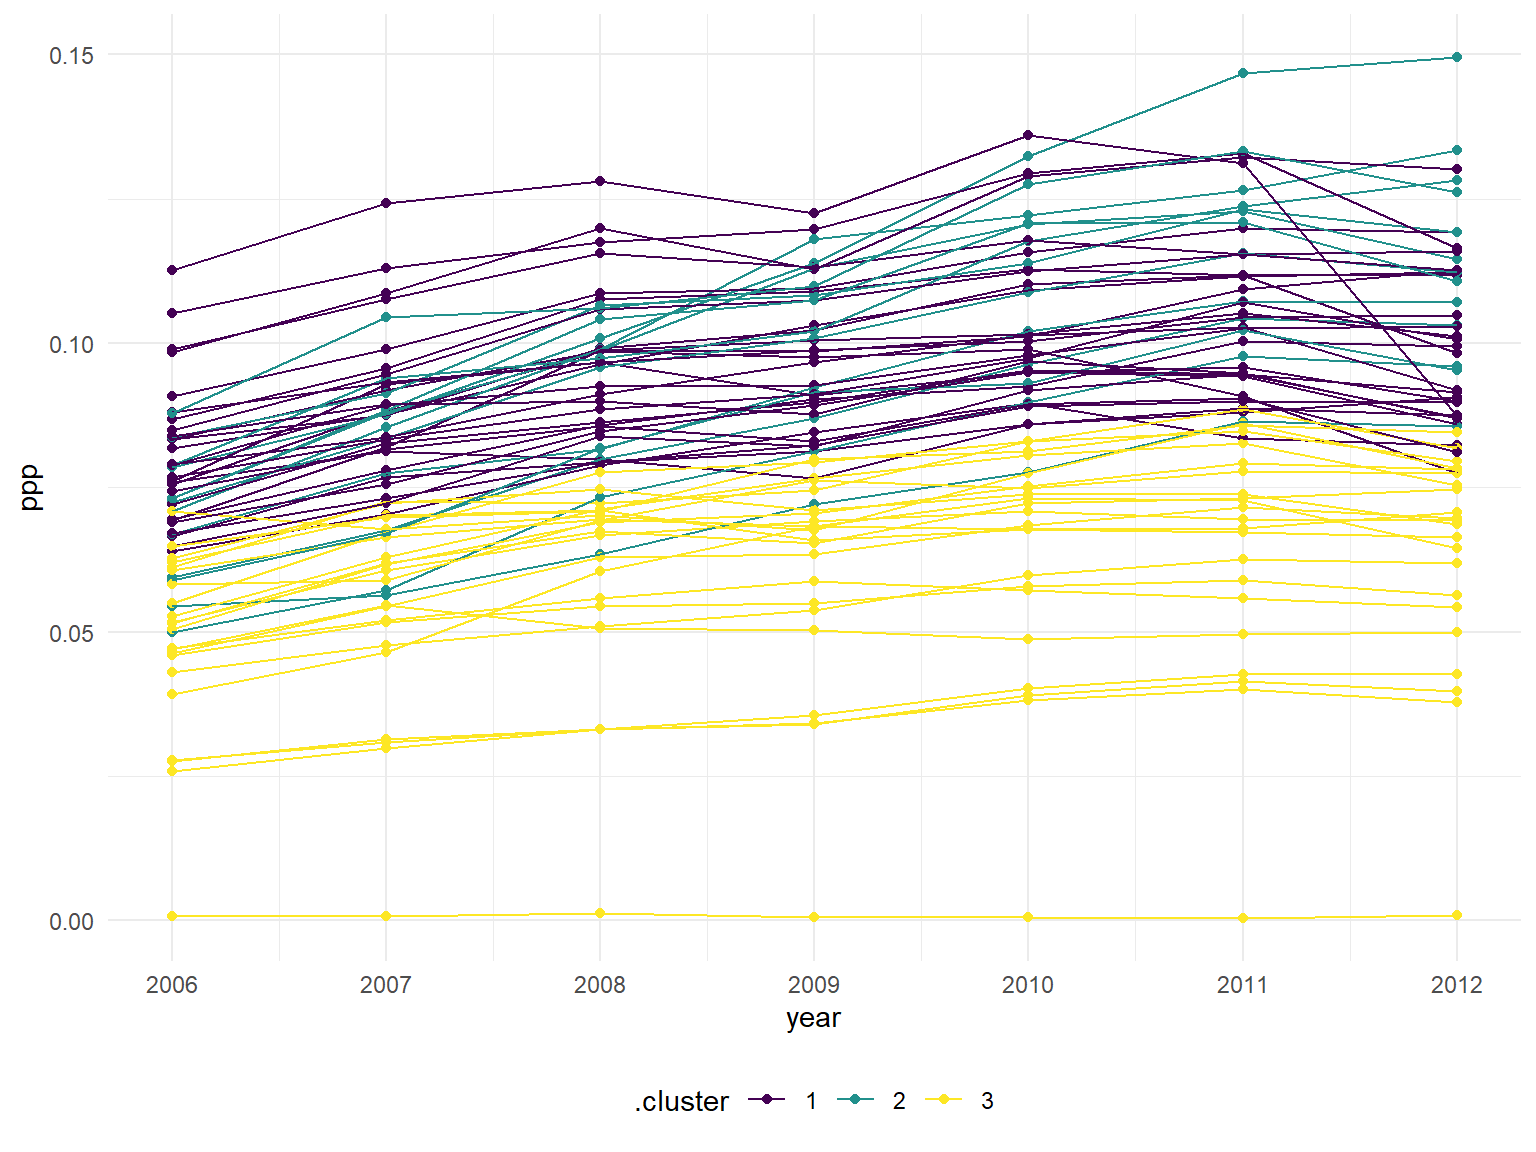
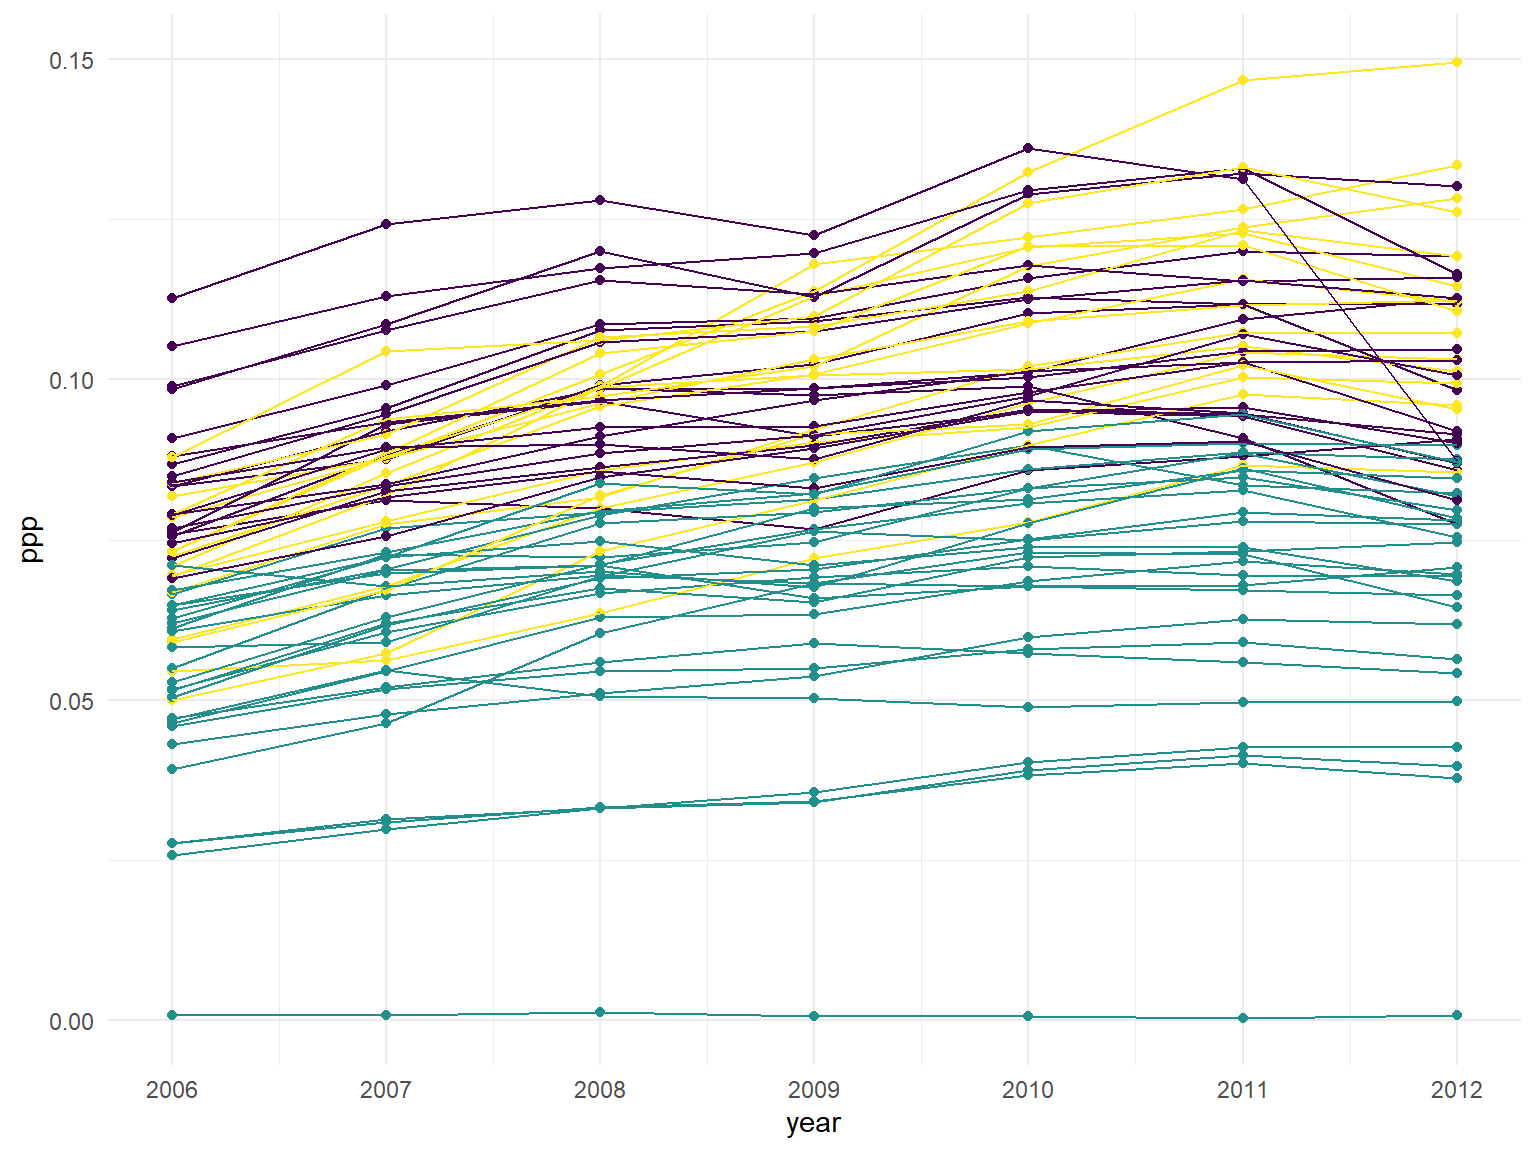
jared's graphs

diff --git a/final_project_jsg.html b/final_project_jsg.html
@@ -480,7 +480,8 @@ int_slope_df =
   ggplot(aes(x = year, y = ppp, group = county, color = .cluster)) + 
   geom_point() + 
   geom_path() +
-  scale_x_continuous(breaks = c(0, 1, 2, 3, 4, 5, 6), labels = c(&quot;2006&quot;, &quot;2007&quot;, &quot;2008&quot;, &quot;2009&quot;, &quot;2010&quot;, &quot;2011&quot;, &quot;2012&quot;))</code></pre>
+  scale_x_continuous(breaks = c(0, 1, 2, 3, 4, 5, 6), labels = c(&quot;2006&quot;, &quot;2007&quot;, &quot;2008&quot;, &quot;2009&quot;, &quot;2010&quot;, &quot;2011&quot;, &quot;2012&quot;)) +
+  theme(legend.position = &quot;none&quot;)</code></pre>
 <pre><code>## Joining, by = &quot;county&quot;</code></pre>
 <p><img src="final_project_jsg_files/figure-html/unnamed-chunk-11-1.png" width="90%" /></p>
 <pre class="r"><code>death_sales_dat &lt;- death_sales_df %&gt;%
